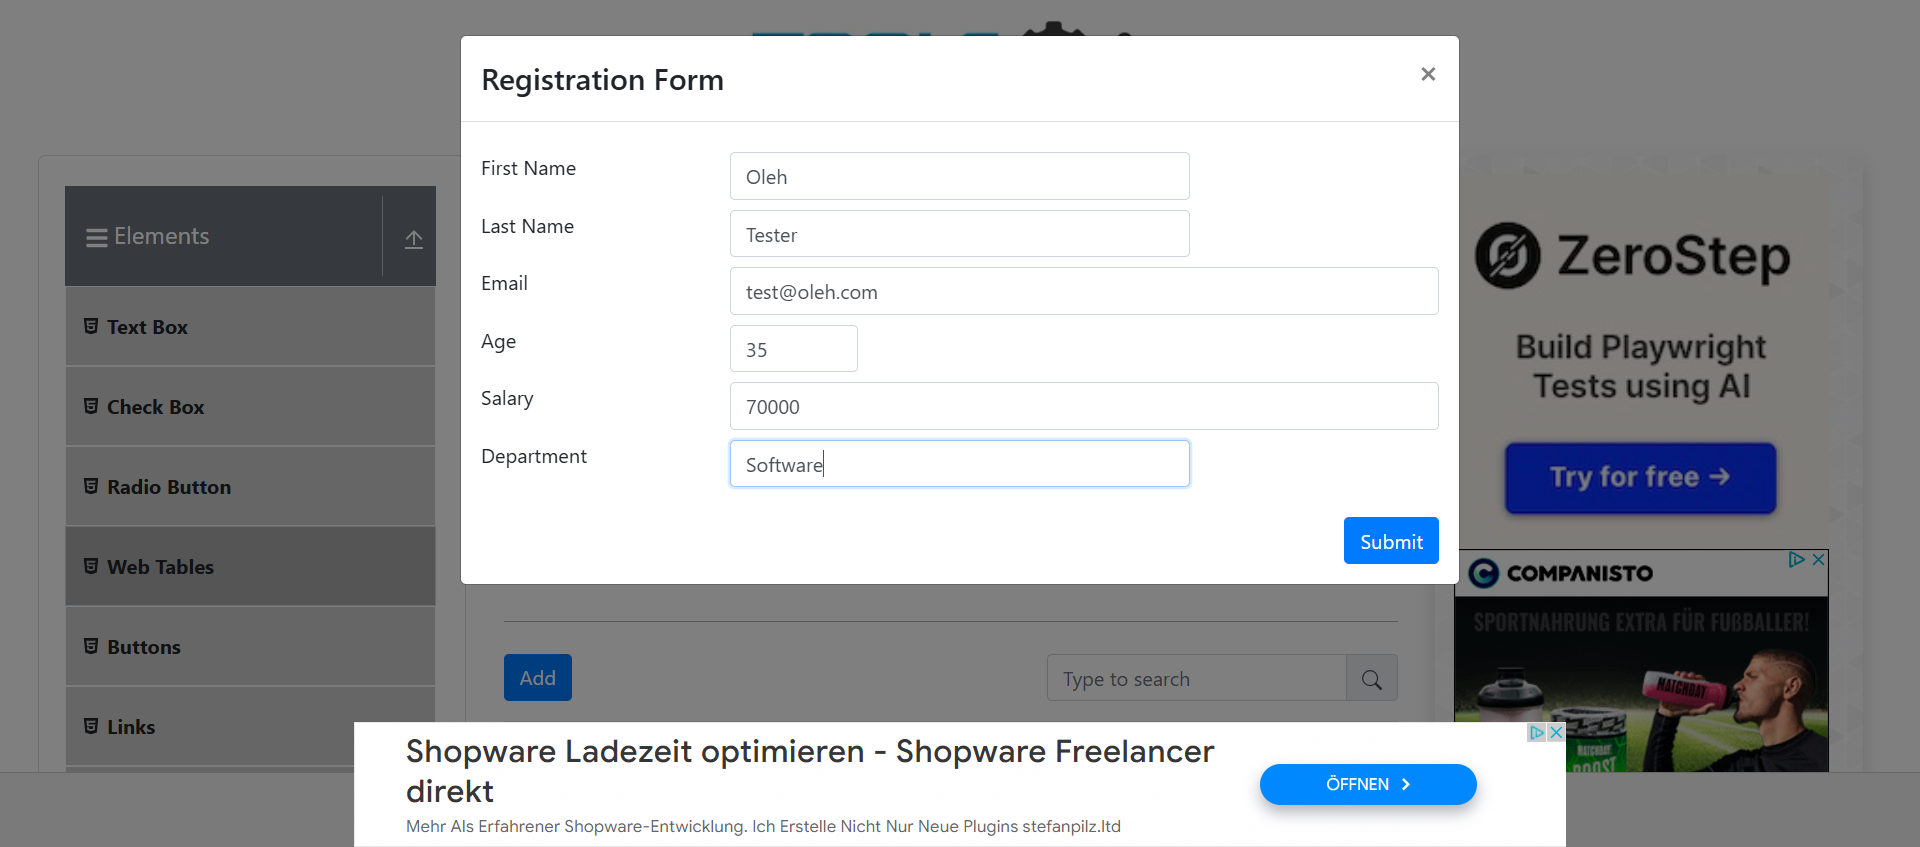
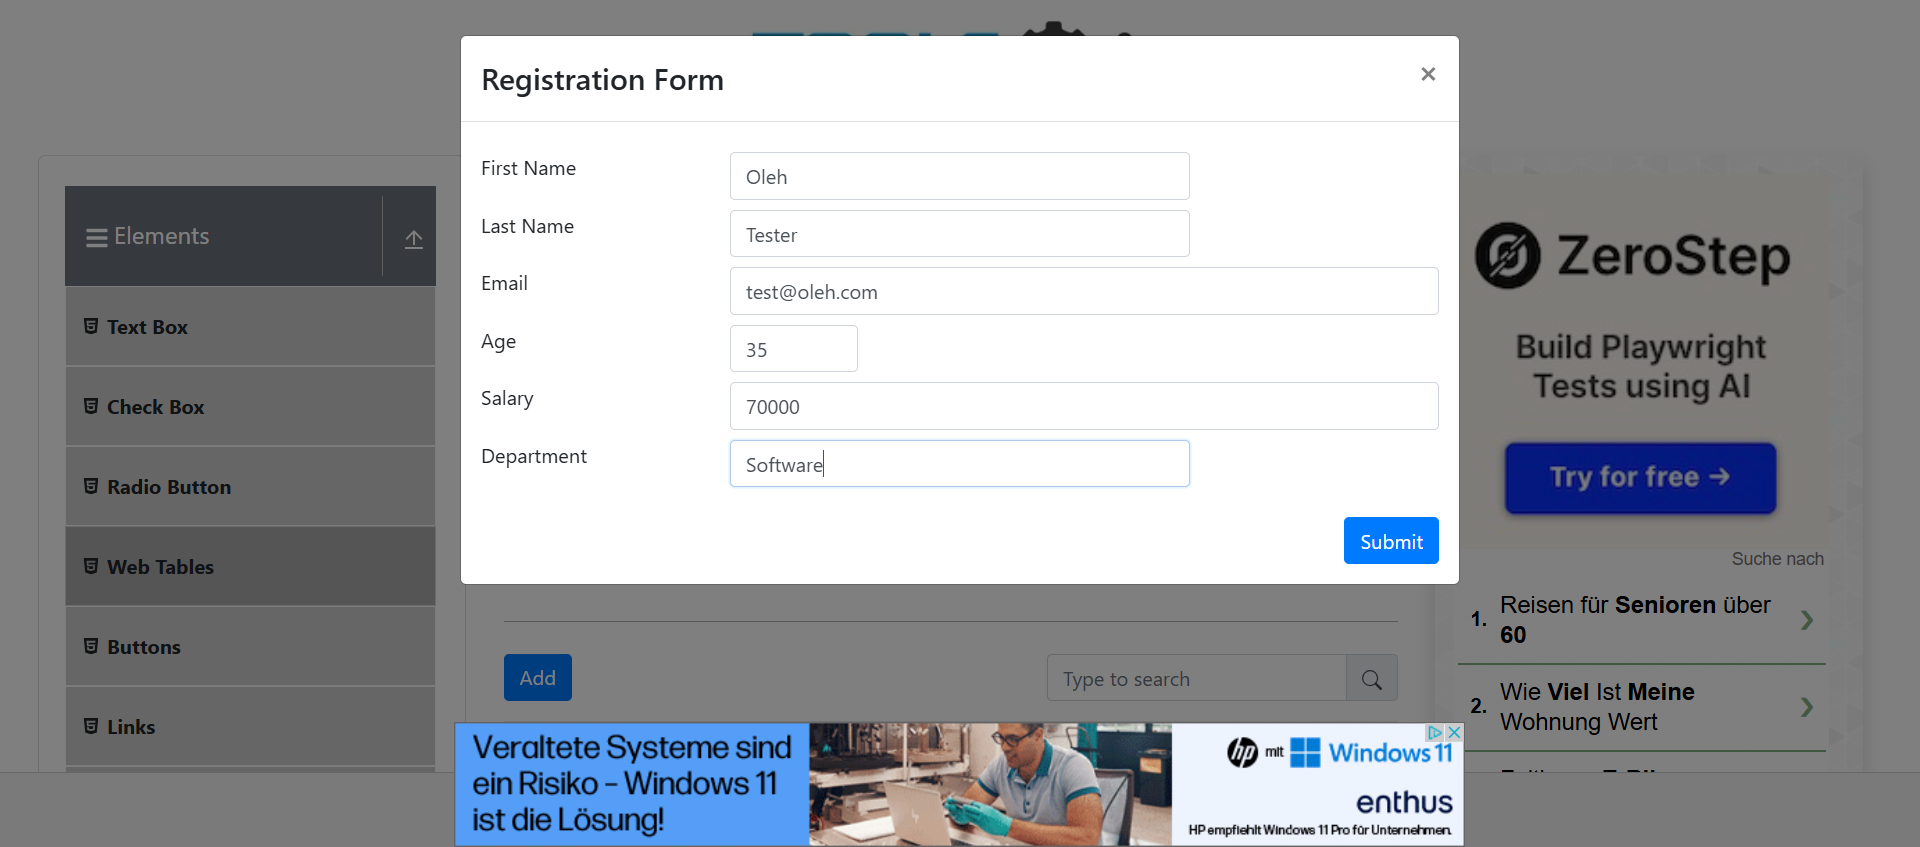
verifying is added.. start working with removing ads :(

Changed region(s): [[0.1875, 0.6446, 0.9688, 1.0], [0.9062, 0.6446, 0.9688, 0.6753]]

diff --git a/OlehSeleniumTest/Commands/CustomCommands.cs b/OlehSeleniumTest/Commands/CustomCommands.cs
@@ -1,3 +1,4 @@
+using OlehSeleniumTest.Models;
 using OpenQA.Selenium;
 using OpenQA.Selenium.Support.UI;
 using System;
@@ -7,10 +8,37 @@ namespace OlehSeleniumTest.Commands
     public static class CustomCommands
     {
         public static void WaitForTableRowData(
-            IWebDriver driver, string name, int timeoutInSeconds = 10)
+            IWebDriver driver, User expectedUser, int timeoutInSeconds = 5)
         {
-            new WebDriverWait(driver, TimeSpan.FromSeconds(timeoutInSeconds))
-                .Until(d => d.FindElement(By.XPath($"//div[@class='rt-td' and text()='{name}']")));
+            var wait = new WebDriverWait(driver, TimeSpan.FromSeconds(timeoutInSeconds));
+
+            wait.Until(d =>
+            {
+                var rows = d.FindElements(By.CssSelector(".rt-tbody .rt-tr-group"));
+
+                foreach (var row in rows)
+                {
+                    var rowText = row.Text;
+
+                    bool allMatch = rowText.Contains(expectedUser.FirstName, StringComparison.OrdinalIgnoreCase) &&
+                                    rowText.Contains(expectedUser.LastName, StringComparison.OrdinalIgnoreCase) &&
+                                    rowText.Contains(expectedUser.Email, StringComparison.OrdinalIgnoreCase) &&
+                                    rowText.Contains(expectedUser.Age, StringComparison.OrdinalIgnoreCase) &&
+                                    rowText.Contains(expectedUser.Salary, StringComparison.OrdinalIgnoreCase) &&
+                                    rowText.Contains(expectedUser.Department, StringComparison.OrdinalIgnoreCase);
+
+                    if (allMatch)
+                    {
+                        Console.WriteLine("User was found!");
+                        Console.WriteLine(rowText);
+
+                        return true;
+                    }
+                }
+
+                System.Console.WriteLine("User wasn't found!");
+                return false;
+            });
         }
 
         public static void WaitForTableRowDeletion(

diff --git a/OlehSeleniumTest/Program.cs b/OlehSeleniumTest/Program.cs
@@ -1,4 +1,5 @@
 using System.Text.Json;
+using OlehSeleniumTest.Commands;
 using OlehSeleniumTest.Models;
 using OpenQA.Selenium;
 using OpenQA.Selenium.Chrome;
@@ -15,8 +16,6 @@ public class Program
         // Start Chrome Browser.
         using var driver = new ChromeDriver(options);
         var wait = new WebDriverWait(driver, TimeSpan.FromSeconds(5));
-
-        
 
         // Navigate to the Web Tables page
         driver.Navigate().GoToUrl("https://demoqa.com/webtables");
@@ -48,6 +47,10 @@ public class Program
         // Submit
         driver.FindElement(By.Id("submit")).Click();
         TakeScreenshot(driver, "step_4_submit");
+
+        // Wait for the data in the table.
+        CustomCommands.WaitForTableRowData(driver, user, 10);
+        TakeScreenshot(driver, "step_5_row_verified");
     }
 
     private static void TakeScreenshot(IWebDriver driver, string stepName)

diff --git a/OlehSeleniumTest/obj/Debug/net9.0/OlehSeleniumTest.AssemblyInfo.cs b/OlehSeleniumTest/obj/Debug/net9.0/OlehSeleniumTest.AssemblyInfo.cs
@@ -13,7 +13,7 @@ using System.Reflection;
 [assembly: System.Reflection.AssemblyCompanyAttribute("OlehSeleniumTest")]
 [assembly: System.Reflection.AssemblyConfigurationAttribute("Debug")]
 [assembly: System.Reflection.AssemblyFileVersionAttribute("1.0.0.0")]
-[assembly: System.Reflection.AssemblyInformationalVersionAttribute("1.0.0+6fd63eb75057507131e99ab9499e3dbddc1c50ba")]
+[assembly: System.Reflection.AssemblyInformationalVersionAttribute("1.0.0+7f04b227af90af60e10b998c706cc4d3674de2c2")]
 [assembly: System.Reflection.AssemblyProductAttribute("OlehSeleniumTest")]
 [assembly: System.Reflection.AssemblyTitleAttribute("OlehSeleniumTest")]
 [assembly: System.Reflection.AssemblyVersionAttribute("1.0.0.0")]
